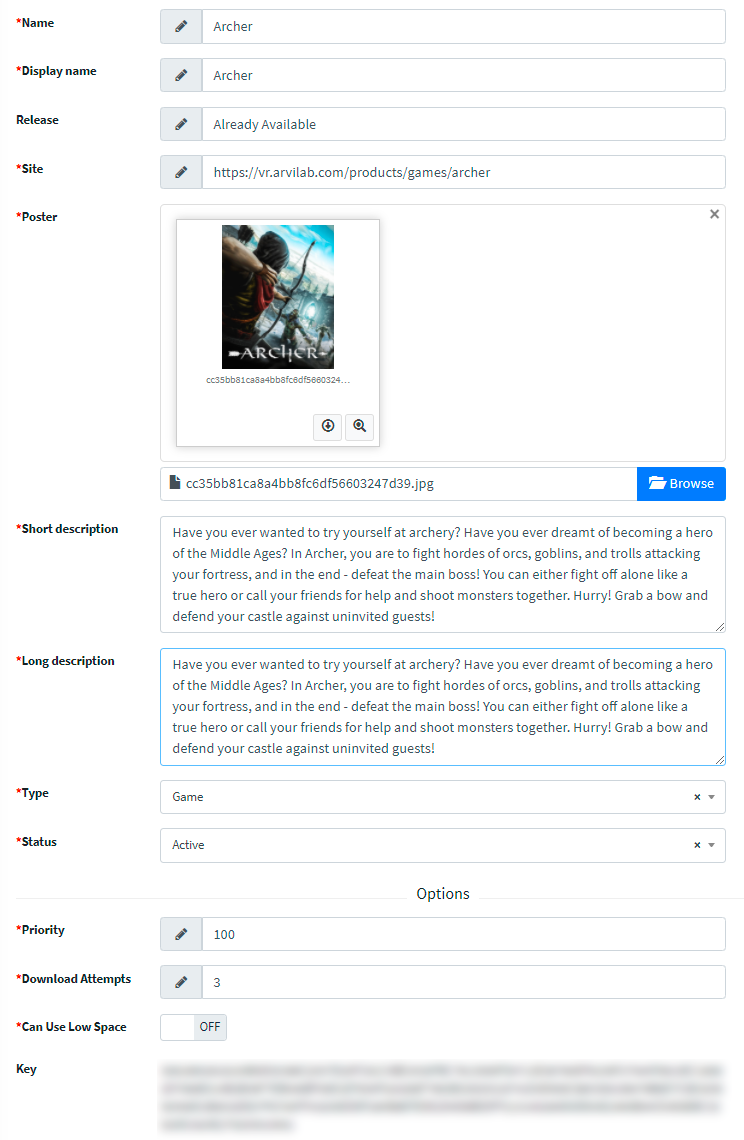
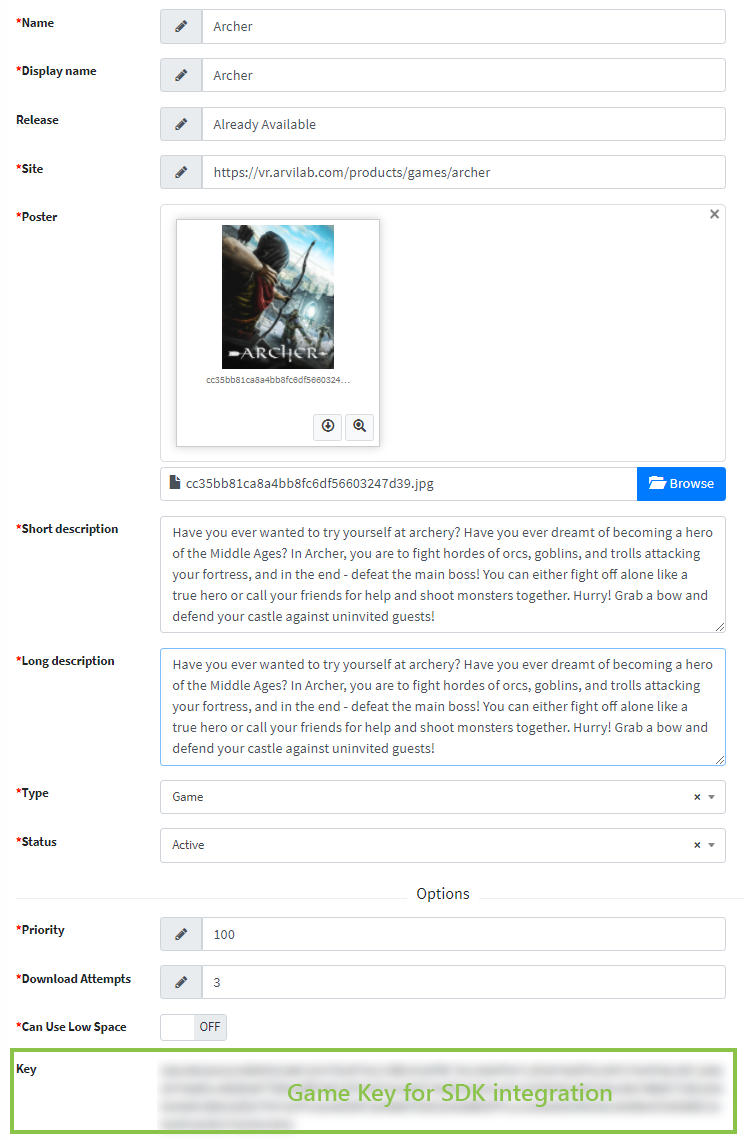
Clarified some points about the Game Key

Changed region(s): [[0.0, 0.9211, 1.0, 1.0], [0.371, 0.1842, 0.4637, 0.2456]]

diff --git a/_tabs/integrations-unity.md b/_tabs/integrations-unity.md
@@ -16,7 +16,7 @@ This Integration SDK requires **Unity 2017.4 or newer**. Go to [DOWNLOADS]({{ '/
 > **Note**: When you install new SDK versions, close Unity, delete the ARVI\SDK folder, and repeat the installation process.
 
 <a name="specifying-app-key"></a>
-After SDK is imported into Unity, a new ARVI menu will appear. Select **ARVI 🡒 Integration 🡒 Settings**. Please specify the game key in the **Application Key** field. You can get this key in the game info section of your developer account on our website.
+After SDK is imported into Unity, a new ARVI menu will appear. Select **ARVI 🡒 Integration 🡒 Settings**. Please specify the [Game Key]({{ '/tabs/getting-started-adding-the-game/#game-key' | relative_url }}) in the **Application Key** field. You can get this key in the game info section of your developer account on our website.
 
 <img src="{{ '/assets/img/unity-integration-appkey.png' | relative_url }}" class="img-fluid mx-auto d-block" />
 

diff --git a/_tabs/getting-started-adding-the-game.md b/_tabs/getting-started-adding-the-game.md
@@ -30,7 +30,7 @@ You must fill the game fields:
 | **`Priority`** | Will be used in a future version of the platform. Default value: `100`. |
 | **`Download Attempts`** | Will be used in a future version of the platform. Default value: `3`. |
 | **`Can Use Low Space`** | Will be used in a future version of the platform. Default value: `OFF`. |
-| **`Key`** | Game key. It is generated automatically for each game and is used by the developer when integrating the ARVI SDK. |
+| **`Key`** <a name="game-key"></a> | Game key. It is generated automatically for each game and is used by the developer when integrating the ARVI SDK. |
 
 For example, this is how these settings look for one of our games -- Archer.
 

diff --git a/_tabs/integrations-unreal.md b/_tabs/integrations-unreal.md
@@ -102,6 +102,8 @@ Or use Blueprint:
 
 <img src="{{ '/assets/img/bp-entitlement.png' | relative_url }}" class="img-fluid mx-auto d-block" />
 
+**AppKey** is a [Game Key]({{ '/tabs/getting-started-adding-the-game/#game-key' | relative_url }}), you can get this key in the game info section of your developer account on our website.
+
 If the check fails, **game must shut down**.
 
 ## Platform request handling
